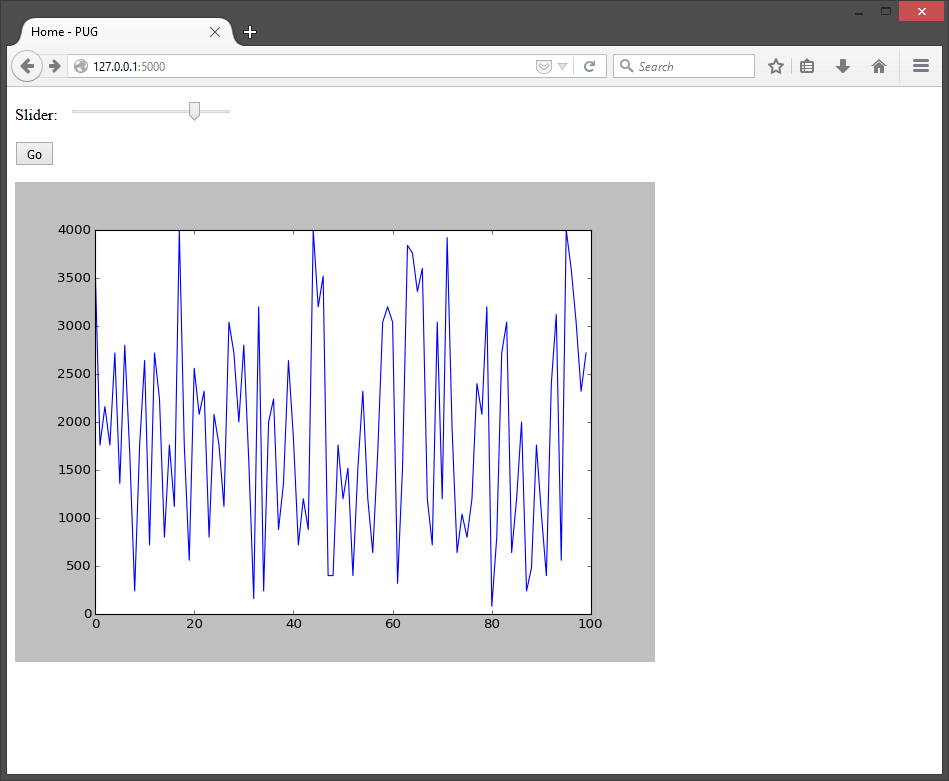
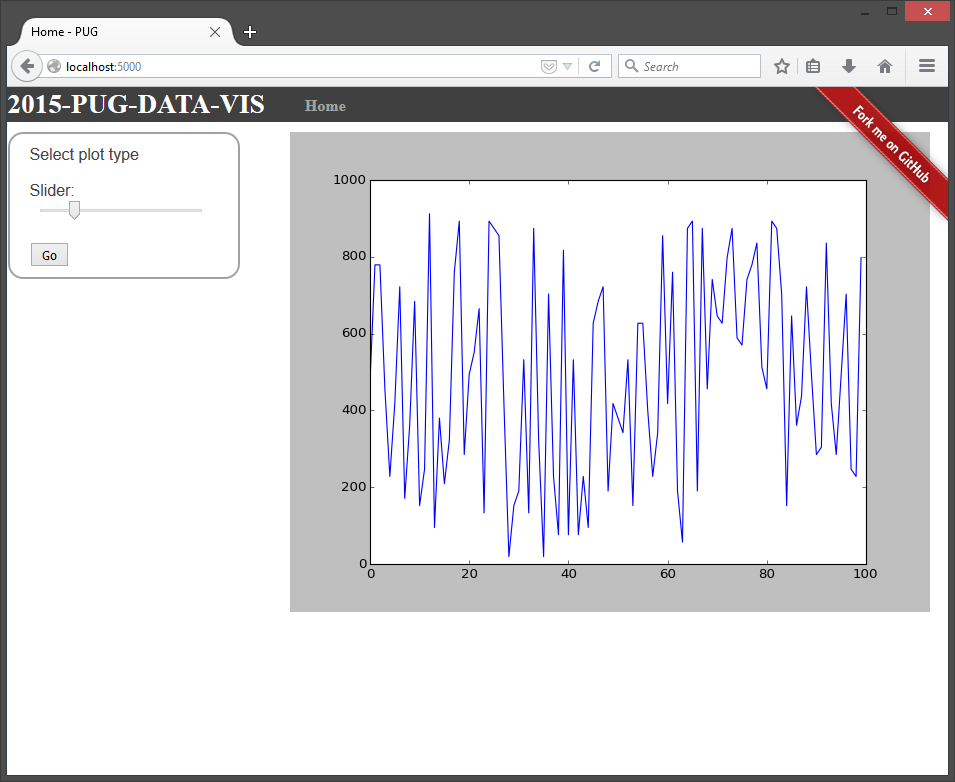
Use template extensions

diff --git a/app/static/css/main.css b/app/static/css/main.css
@@ -1,0 +1,78 @@
+/*
+ * Menu bar text controls
+ */
+.menu {
+  float: left;
+  margin-top: 8px;
+}
+
+.menu li {
+  display: inline;
+}
+
+.menu li + li {
+  margin-left: 35px;
+}
+
+.menu li a {
+  color: #999;
+  text-decoration: none;
+}
+
+/*
+ * Create dark grey header with a white logo
+ */
+header {
+  background-color: #2B2B2B;
+  height: 35px;
+  width: 100%;
+  opacity: .9;
+  margin-bottom: 10px;
+  font-family: 'Monospace';
+}
+
+header h1.logo {
+  margin: 0;
+  font-size: 1.7em;
+  color: #fff;
+  text-transform: uppercase;
+  float: left;
+}
+
+header h1.logo:hover {
+  color: #fff;
+  text-decoration: none;
+}
+
+/*
+ * Body content layout
+ */
+
+ body {
+  margin: 0;
+  padding: 0;
+  font-family: "Helvetica Neue", Helvetica, Arial, sans-serif;
+  color: #444;
+}
+
+.container {
+  width: 940px;
+  margin: 0 auto;
+}
+
+#container {
+    float: right;
+    width: 75%;
+}
+
+#sidebar {
+    float: left;
+    width: 20%;
+}
+
+div #sidebar
+{
+  border:2px solid #a1a1a1;
+  padding:10px 20px;
+  border-radius:15px;
+}

diff --git a/app/templates/layout.html b/app/templates/layout.html
@@ -1,0 +1,28 @@
+<!DOCTYPE html>
+<html>
+<head>
+  {% if title %}
+  <title>{{ title }} - PUG</title>
+  {% else %}
+  <title>2015-PUG-Data-Vis</title>
+  {% endif %}
+  <link rel="stylesheet" href="{{ url_for('static', filename='css/main.css') }}">
+</head>
+<body>
+  <header>
+    <div class="container">
+      <h1 class="logo">2015-PUG-Data-Vis</h1>
+      <strong><nav>
+        <ul class="menu">
+          <li><a href="{{ url_for('index') }}">Home</a></li>
+        </ul>
+      </nav></strong>
+    </div>
+  <a href="https://github.com/jakebrinkmann/2015-PUG-flask-data-vis"><img style="position: absolute; top: 0; right: 0; border: 0;" src="https://github-camo.global.ssl.fastly.net/365986a132ccd6a44c23a9169022c0b5c890c387/68747470733a2f2f73332e616d617a6f6e6177732e636f6d2f6769746875622f726962626f6e732f666f726b6d655f72696768745f7265645f6161303030302e706e67"></a>
+  </header>
+  <div class="container">
+    {% block content %}
+    {% endblock %}
+  </div>
+</body>
+</html>

diff --git a/app/templates/index.html b/app/templates/index.html
@@ -1,16 +1,16 @@
-<html>
-  <head>
-    {% if title %}
-    <title>{{ title }} - PUG</title>
-    {% else %}
-    <title>2015-PUG-Data-Vis</title>
-    {% endif %}
-  </head>
-  <body>
-      <form method="POST" action="/">
-          <p>{{ form.my_slider.label }}: {{ form.my_slider }}</p>
-          <input type="submit" value="Go">
-      </form>
-      <img src="{{ url_for('plot', mag=mag) }}"></img>
-  </body>
-</html>
+{% extends "layout.html" %}
+{% block content %}
+
+<div id="sidebar">
+  <span>Select plot type</span>
+  <form method="POST" action="/">
+      <p>{{ form.my_slider.label }}: {{ form.my_slider }}</p>
+      <input type="submit" value="Go">
+  </form>
+</div>
+
+<div id="container" style="width:70%; height:400px;">
+  <img src="{{ url_for('plot', mag=mag) }}"></img>
+</div>
+
+{% endblock %}
